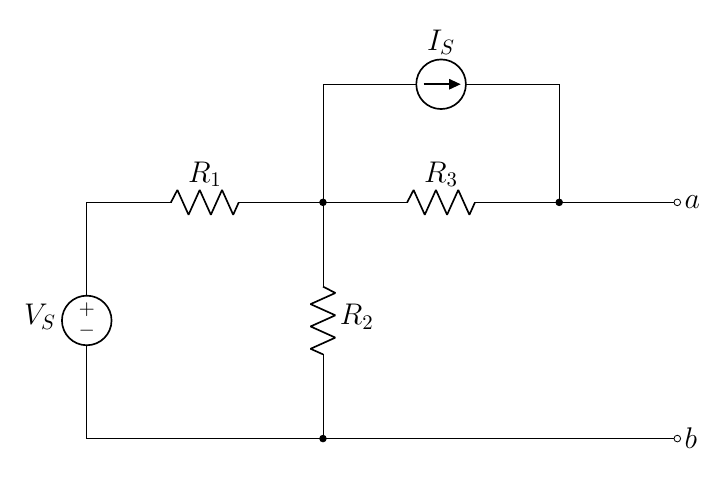
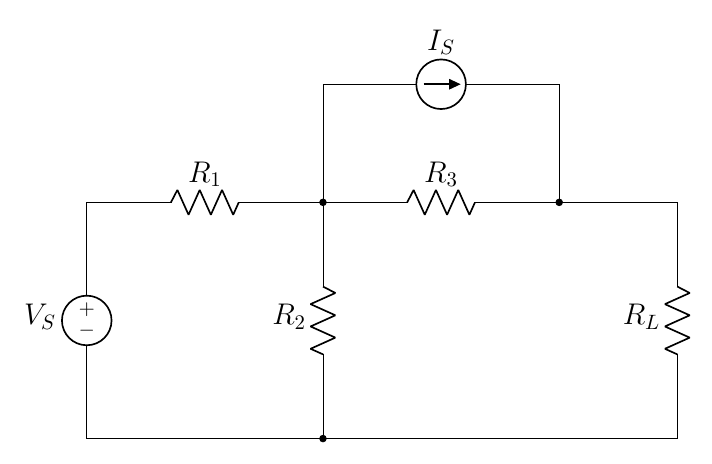
edit 4.34

Changed region(s): [[0.0309, 0.0603, 0.9579, 0.9655], [0.8652, 0.6336, 0.9888, 0.7845], [0.927, 0.875, 0.9579, 0.9655]]

diff --git a/1.8 Thevinin and Norton/4.5-4.6 Thevenin Norton/4.34(new).tex b/1.8 Thevinin and Norton/4.5-4.6 Thevenin Norton/4.34(new).tex
@@ -3,17 +3,18 @@
 \begin{circuitikz}[american,cute inductors]
     \input{../../preamble2.tex}
 
-    \draw(0,0) node[anchor=west]{$b$}
-        to[short,o-*] ++(-6,0)
+    \draw(0,0)
+        to[short,-*] ++(-6,0)
         to[short] ++(-4,0)
         to[V,l=\vsname{}] ++(0,4)
         to[R,l=\rname{1}] ++(4,0)
-        to[R,l=\rname{2}] ++(0,-4) ++(0,4)
+        to[R,l_=\rname{2}] ++(0,-4) ++(0,4)
         to[R,l=\rname{3},*-*] ++(4,0) ++(-4,0)
         to[short] ++(0,2)
         to[I,l=\isname{}] ++(4,0)
         to[short] ++(0,-2)
-        to[short,-o] ++(2,0) node[anchor=west]{$a$};
+        to[short] ++(2,0)
+        to[R,l_=\rname{L}] (0,0);
 
     %%% find %%%
     % \node at(3.7,4.6) []{$t=0$};
@@ -21,8 +22,8 @@
     % \draw[magenta](6.7,2.7)  
         % to[open,v=$v$] ++(2,0);
 
-    % \draw[magenta](4,3)  
-    %     to[open,v^=$v$] ++(0,-2);
+    % \draw[magenta](0,4)  
+        % to[open,v^=$v$] ++(0,-);
 
     % \draw[circuitikz/current arrow color=magenta](0,3.8)
     % to[open,f>^=$\color{magenta}{i}$] ++(0,-2);
